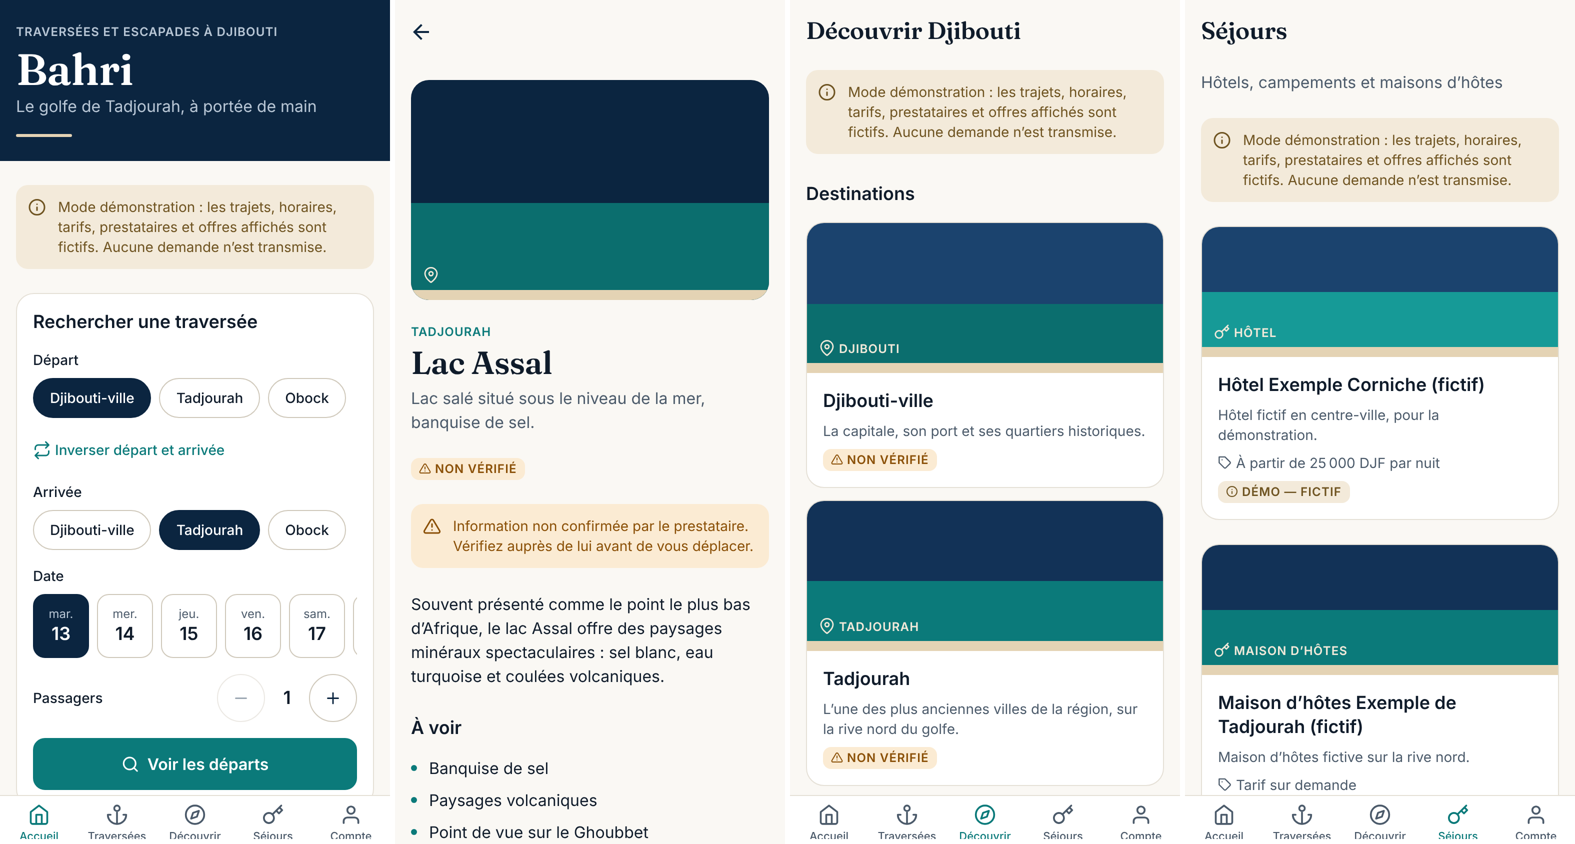
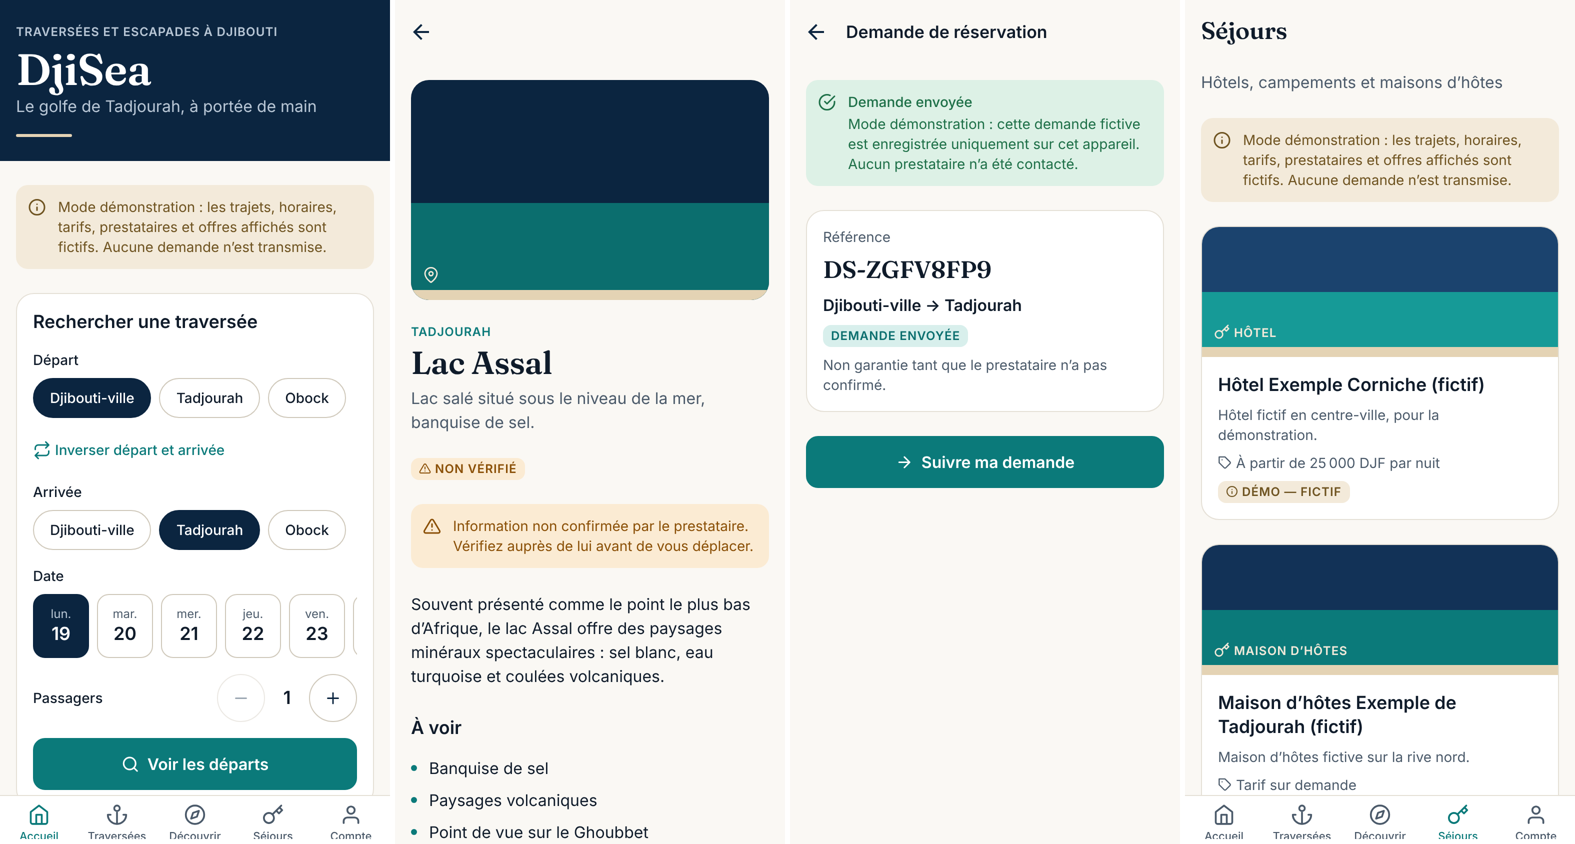
Renommage de l'application : Bahri → DjiSea
- Nom affiché, slug, schéma de liens et identifiants dj.djisea.app
- Préfixe des références de réservation : BH- → DS- (TS, SQL, tests)
- Textes de l'interface, documentation et aperçu des écrans mis à jour

Claude-Session: https://claude.ai/code/session_01MPoKa47Z8WQnbA75hbXnHw

diff --git a/src/i18n/fr.ts b/src/i18n/fr.ts
@@ -1,6 +1,6 @@
 export const fr = {
   common: {
-    appName: 'Bahri',
+    appName: 'DjiSea',
     tagline: 'Traversées et escapades à Djibouti',
     retry: 'Réessayer',
     loading: 'Chargement…',
@@ -37,7 +37,7 @@ export const fr = {
   },
   sponsored: {
     label: 'Sponsorisé',
-    explainer: 'Contenu payé par le prestataire. Bahri ne garantit pas ses prestations.',
+    explainer: 'Contenu payé par le prestataire. DjiSea ne garantit pas ses prestations.',
   },
   home: {
     greeting: 'Le golfe de Tadjourah, à portée de main',
@@ -47,7 +47,7 @@ export const fr = {
     stays: 'Où dormir',
     partners: 'Offres partenaires',
     intermediary:
-      'Bahri est une plateforme indépendante de mise en relation. Les traversées et prestations sont assurées par leurs exploitants.',
+      'DjiSea est une plateforme indépendante de mise en relation. Les traversées et prestations sont assurées par leurs exploitants.',
   },
   crossings: {
     title: 'Traversées',
@@ -143,7 +143,7 @@ export const fr = {
     privacy: 'Confidentialité et données',
     privacyBody:
       'Nous ne collectons que les informations nécessaires à vos demandes. Vous pouvez demander l’accès, la rectification ou la suppression de vos données.',
-    about: 'À propos de Bahri',
+    about: 'À propos de DjiSea',
     demoAuth:
       'La connexion sera activée lorsque le serveur sera configuré. En démonstration, vos demandes fictives restent sur cet appareil.',
     providerSpace: 'Vous êtes prestataire ?',
@@ -164,8 +164,8 @@ export const fr = {
   about: {
     title: 'À propos',
     body: [
-      'Bahri est une plateforme indépendante qui aide à découvrir Djibouti et à contacter les prestataires de transport maritime, d’hébergement et d’activités.',
-      'Bahri n’est ni armateur, ni exploitant de lignes maritimes, ni hôtel. Chaque prestation est assurée par le prestataire indiqué, sous sa responsabilité.',
+      'DjiSea est une plateforme indépendante qui aide à découvrir Djibouti et à contacter les prestataires de transport maritime, d’hébergement et d’activités.',
+      'DjiSea n’est ni armateur, ni exploitant de lignes maritimes, ni hôtel. Chaque prestation est assurée par le prestataire indiqué, sous sa responsabilité.',
       'Les horaires, tarifs et disponibilités ne sont présentés comme vérifiés que lorsqu’ils ont été confirmés par le prestataire.',
       'Les contenus sponsorisés sont toujours signalés comme tels.',
     ],

diff --git a/src/i18n/en.ts b/src/i18n/en.ts
@@ -2,7 +2,7 @@ import type { Dictionary } from './fr';
 
 export const en: Dictionary = {
   common: {
-    appName: 'Bahri',
+    appName: 'DjiSea',
     tagline: 'Sea crossings and getaways in Djibouti',
     retry: 'Try again',
     loading: 'Loading…',
@@ -32,7 +32,7 @@ export const en: Dictionary = {
   },
   sponsored: {
     label: 'Sponsored',
-    explainer: 'Paid content from the provider. Bahri does not guarantee their services.',
+    explainer: 'Paid content from the provider. DjiSea does not guarantee their services.',
   },
   home: {
     greeting: 'The Gulf of Tadjourah, within reach',
@@ -42,7 +42,7 @@ export const en: Dictionary = {
     stays: 'Where to stay',
     partners: 'Partner offers',
     intermediary:
-      'Bahri is an independent booking platform. Crossings and services are operated by their providers.',
+      'DjiSea is an independent booking platform. Crossings and services are operated by their providers.',
   },
   crossings: {
     title: 'Crossings',
@@ -134,7 +134,7 @@ export const en: Dictionary = {
     privacy: 'Privacy and data',
     privacyBody:
       'We only collect what your requests need. You can ask to access, correct or delete your data.',
-    about: 'About Bahri',
+    about: 'About DjiSea',
     demoAuth: 'Sign-in will be enabled once the server is configured. In demo mode, requests stay on this device.',
     providerSpace: 'Are you a provider?',
     providerSpaceBody:
@@ -154,8 +154,8 @@ export const en: Dictionary = {
   about: {
     title: 'About',
     body: [
-      'Bahri is an independent platform to discover Djibouti and reach sea transport, accommodation and activity providers.',
-      'Bahri is not a ship owner, a ferry operator or a hotel. Each service is provided by the listed provider, under its responsibility.',
+      'DjiSea is an independent platform to discover Djibouti and reach sea transport, accommodation and activity providers.',
+      'DjiSea is not a ship owner, a ferry operator or a hotel. Each service is provided by the listed provider, under its responsibility.',
       'Schedules, fares and availability are shown as verified only once confirmed by the provider.',
       'Sponsored content is always labelled as such.',
     ],

diff --git a/src/domain/booking-reference.ts b/src/domain/booking-reference.ts
@@ -7,14 +7,14 @@
 
 export const REFERENCE_ALPHABET = 'ABCDEFGHJKMNPQRSTUVWXYZ23456789';
 const REFERENCE_BODY_LENGTH = 8;
-export const REFERENCE_PATTERN = /^BH-[ABCDEFGHJKMNPQRSTUVWXYZ23456789]{8}$/;
+export const REFERENCE_PATTERN = /^DS-[ABCDEFGHJKMNPQRSTUVWXYZ23456789]{8}$/;
 
 export function generateBookingReference(random: () => number = Math.random): string {
   let body = '';
   for (let i = 0; i < REFERENCE_BODY_LENGTH; i++) {
     body += REFERENCE_ALPHABET[Math.floor(random() * REFERENCE_ALPHABET.length)];
   }
-  return `BH-${body}`;
+  return `DS-${body}`;
 }
 
 export function isBookingReference(value: string): boolean {

diff --git a/src/__tests__/booking-new.test.tsx b/src/__tests__/booking-new.test.tsx
@@ -71,7 +71,7 @@ describe('demande de réservation', () => {
     await renderWith(demo);
     await fillAndSubmit();
     await waitFor(() => expect(screen.getByText('Demande envoyée')).toBeTruthy());
-    expect(screen.getByText(/^BH-[A-Z2-9]{8}$/)).toBeTruthy();
+    expect(screen.getByText(/^DS-[A-Z2-9]{8}$/)).toBeTruthy();
     expect(screen.getByText(/Aucun prestataire n’a été contacté/)).toBeTruthy();
   });
 });

diff --git a/src/design/tokens.ts b/src/design/tokens.ts
@@ -1,5 +1,5 @@
 /**
- * Système de design « Bahri ».
+ * Système de design « DjiSea ».
  *
  * Inspiration : le golfe de Tadjourah — bleu marin profond du large, turquoise
  * des hauts-fonds, blanc cassé de la lumière, sable des plages et des lacs salés.

diff --git a/src/data/demo/demo-backend.ts b/src/data/demo/demo-backend.ts
@@ -24,7 +24,7 @@ import {
   demoStays,
 } from './demo-data';
 
-const STORAGE_KEY = 'bahri.demo.bookings.v1';
+const STORAGE_KEY = 'djisea.demo.bookings.v1';
 
 type StoredBooking = { booking: Booking; timeline: BookingDetail['timeline'] };
 

diff --git a/docs/juridique.md b/docs/juridique.md
@@ -4,7 +4,7 @@
 
 ## 1. Qualification de l'activité de la plateforme
 
-Question centrale : selon la manière dont Bahri fonctionne, elle peut être qualifiée de simple **hébergeur / annuaire**, d'**intermédiaire** de réservation, ou d'**agence de voyages / opérateur de services touristiques**. Chaque qualification entraîne des obligations différentes.
+Question centrale : selon la manière dont DjiSea fonctionne, elle peut être qualifiée de simple **hébergeur / annuaire**, d'**intermédiaire** de réservation, ou d'**agence de voyages / opérateur de services touristiques**. Chaque qualification entraîne des obligations différentes.
 
 | Mode de fonctionnement | Qualification probable à analyser |
 | --- | --- |
@@ -41,7 +41,7 @@ Le **Code du numérique**, dont la loi d'approbation a été adoptée le 30 juin
 
 Selon des sources secondaires **non vérifiées dans le texte officiel** : droits des personnes, obligations de minimisation et de protection dès la conception, notification des violations (un délai de 72 h est avancé), **régime d'autorisation des transferts vers des pays tiers**, autorisation préalable pour certains traitements à risque. Les sources divergent sur la mise en place effective de la CNDP.
 
-Conséquences pour Bahri :
+Conséquences pour DjiSea :
 
 - **Hébergement hors de Djibouti** (Supabase, serveurs en Europe ou ailleurs) = transfert international : vérifier s'il faut une autorisation ou des garanties.
 - Données traitées : identité et téléphone du client, **noms des passagers** (y compris d'enfants), historique de réservations. Pas de données de carte bancaire.
@@ -58,7 +58,7 @@ Le Code du numérique traite aussi du commerce électronique (contrats en ligne)
 ## 5. Paiements
 
 - La **Banque Centrale de Djibouti (BCD)** soumet les établissements financiers à agrément ; l'**Instruction n° 2017-01** encadre les émetteurs de monnaie électronique ([instructions BCD](https://banque-centrale.dj/les-instructions/), [établissements agréés](https://banque-centrale.dj/les-etablissements-agrees/)).
-- **Encaisser des fonds pour le compte de tiers** (le client paie Bahri, qui reverse au prestataire) pourrait relever d'une activité réglementée : à vérifier avec la BCD et la banque choisie. Alternative plus simple : le client paie le prestataire directement, Bahri facture une commission au prestataire.
+- **Encaisser des fonds pour le compte de tiers** (le client paie DjiSea, qui reverse au prestataire) pourrait relever d'une activité réglementée : à vérifier avec la BCD et la banque choisie. Alternative plus simple : le client paie le prestataire directement, DjiSea facture une commission au prestataire.
 - Voir [paiements.md](paiements.md).
 
 ## 6. Fiscalité et statut de l'entreprise

diff --git a/docs/publication.md b/docs/publication.md
@@ -6,10 +6,10 @@ Ces étapes demandent **vos** comptes (Expo, Apple, Google) : elles ne peuvent p
 
 | Plateforme | Identifiant | Remarque |
 | --- | --- | --- |
-| Android | `dj.bahri.app` | **Définitif après la première publication sur Google Play** |
-| iOS | `dj.bahri.app` | Définitif après création dans App Store Connect |
+| Android | `dj.djisea.app` | **Définitif après la première publication sur Google Play** |
+| iOS | `dj.djisea.app` | Définitif après création dans App Store Connect |
 
-⚠ À confirmer **avant** le premier build de production. Il est d'usage d'utiliser un nom de domaine que l'on possède (inversé) : si vous achetez un autre domaine que `bahri.dj`, changez ces identifiants dans `app.json` maintenant.
+⚠ À confirmer **avant** le premier build de production. Il est d'usage d'utiliser un nom de domaine que l'on possède (inversé) : si vous achetez un autre domaine que `djisea.dj`, changez ces identifiants dans `app.json` maintenant.
 
 ## Ce qui a déjà été vérifié dans l'environnement cloud
 
@@ -71,10 +71,10 @@ Déclarer `EXPO_PUBLIC_SUPABASE_URL` et `EXPO_PUBLIC_SUPABASE_PUBLISHABLE_KEY` d
 
 ## 6. Fiches des boutiques (brouillon)
 
-- **Nom** : Bahri — Traversées & Djibouti
+- **Nom** : DjiSea — Traversées & Djibouti
 - **Sous-titre** : Golfe de Tadjourah, excursions, hébergements
 - **Description courte** : Trouvez une traversée, découvrez Djibouti et contactez des prestataires locaux vérifiés.
-- **Mention obligatoire dans la description** : « Bahri est une plateforme indépendante de mise en relation. Les traversées et prestations sont assurées par leurs exploitants. »
+- **Mention obligatoire dans la description** : « DjiSea est une plateforme indépendante de mise en relation. Les traversées et prestations sont assurées par leurs exploitants. »
 - **Catégorie** : Voyages
 
 ## 7. Recette avant lancement

diff --git a/README.md b/README.md
@@ -1,12 +1,12 @@
-# Bahri — traversées et tourisme à Djibouti
+# DjiSea — traversées et tourisme à Djibouti
 
 Application mobile (Android et iOS, base de code unique) de mise en relation pour le transport maritime et le tourisme à Djibouti : traversées du golfe de Tadjourah, destinations, excursions, hébergements et prestataires locaux.
 
-> **Nom provisoire.** « Bahri » (« maritime » en arabe) est un nom de travail. Vérifier sa disponibilité (marque, nom de domaine, boutiques d'applications) avant tout lancement.
+> **Nom : DjiSea** (« Djibouti » + « sea », la mer). Vérifier sa disponibilité (dépôt de marque, nom de domaine, boutiques d'applications) avant tout lancement.
 
 > **Statut : prototype fonctionnel en mode démonstration.** Toutes les offres affichées (prestataires, trajets, horaires, tarifs, hébergements, excursions, annonces) sont **fictives** et signalées comme telles dans l'application. Les destinations sont des lieux réels, mais leurs descriptions ne sont **pas vérifiées**.
 
-Bahri est une plateforme **indépendante d'intermédiation**. Elle n'est ni armateur, ni exploitant de lignes maritimes, ni hôtel, et ne détient aucune autorisation officielle à ce jour.
+DjiSea est une plateforme **indépendante d'intermédiation**. Elle n'est ni armateur, ni exploitant de lignes maritimes, ni hôtel, et ne détient aucune autorisation officielle à ce jour.
 
 ![Aperçu : accueil, fiche destination, découverte, séjours (version web, mode démonstration)](docs/apercu-ecrans.png)
 

diff --git a/docs/supabase.md b/docs/supabase.md
@@ -6,8 +6,8 @@ Durée estimée : 1 à 2 heures. Ces étapes nécessitent **votre** compte : ell
 
 Créez sur [supabase.com](https://supabase.com) :
 
-- `bahri-recette` (tests, données de démonstration) ;
-- `bahri-production` (vraies données, jamais de données de démo).
+- `djisea-recette` (tests, données de démonstration) ;
+- `djisea-production` (vraies données, jamais de données de démo).
 
 **Région** : choisir une région proche (par exemple Europe centrale). ⚠ Héberger les données hors de Djibouti constitue un **transfert international de données personnelles** : vérifier les conditions posées par la loi djiboutienne sur la protection des données (voir [juridique.md](juridique.md)).
 
@@ -22,7 +22,7 @@ npx supabase@latest link --project-ref <identifiant-du-projet>
 npx supabase@latest db push         # applique supabase/migrations/*.sql
 ```
 
-Pour la **recette uniquement**, charger les données fictives : copier le contenu de `supabase/seed.sql` dans l'éditeur SQL du tableau de bord du projet `bahri-recette`.
+Pour la **recette uniquement**, charger les données fictives : copier le contenu de `supabase/seed.sql` dans l'éditeur SQL du tableau de bord du projet `djisea-recette`.
 
 ## 3. Authentification par code e-mail
 

diff --git a/docs/politique-confidentialite.md b/docs/politique-confidentialite.md
@@ -6,9 +6,9 @@
 
 ## 1. Qui sommes-nous ?
 
-L'application Bahri est éditée par **[raison sociale, forme, capital, numéro d'immatriculation, adresse à Djibouti]**, joignable à **[adresse e-mail dédiée à la confidentialité]**.
+L'application DjiSea est éditée par **[raison sociale, forme, capital, numéro d'immatriculation, adresse à Djibouti]**, joignable à **[adresse e-mail dédiée à la confidentialité]**.
 
-Bahri est une plateforme de mise en relation entre voyageurs et prestataires (transport maritime, hébergement, activités). Les prestataires sont responsables des prestations qu'ils fournissent.
+DjiSea est une plateforme de mise en relation entre voyageurs et prestataires (transport maritime, hébergement, activités). Les prestataires sont responsables des prestations qu'ils fournissent.
 
 ## 2. Quelles données collectons-nous ?
 

diff --git a/docs/architecture.md b/docs/architecture.md
@@ -55,7 +55,7 @@ Les écrans ne connaissent que les interfaces de `src/data/repository.ts` ; ajou
 | `destinations` | Lieux (port ou non), publiés par la plateforme |
 | `routes` / `departures` | Trajets (origine, destination, tarif, conditions) et départs datés avec capacité |
 | `experiences` / `stays` | Excursions, circuits, activités, guides / hébergements |
-| `bookings` | Demandes : référence unique `BH-XXXXXXXX`, statut, horodatages, montant indicatif |
+| `bookings` | Demandes : référence unique `DS-XXXXXXXX`, statut, horodatages, montant indicatif |
 | `booking_passengers` | Manifeste nominatif |
 | `booking_events` | Historique des statuts (chronologie affichée + audit) |
 | `payments` / `refunds` | Prêtes pour un futur prestataire de paiement ; **aucune donnée de carte** |
